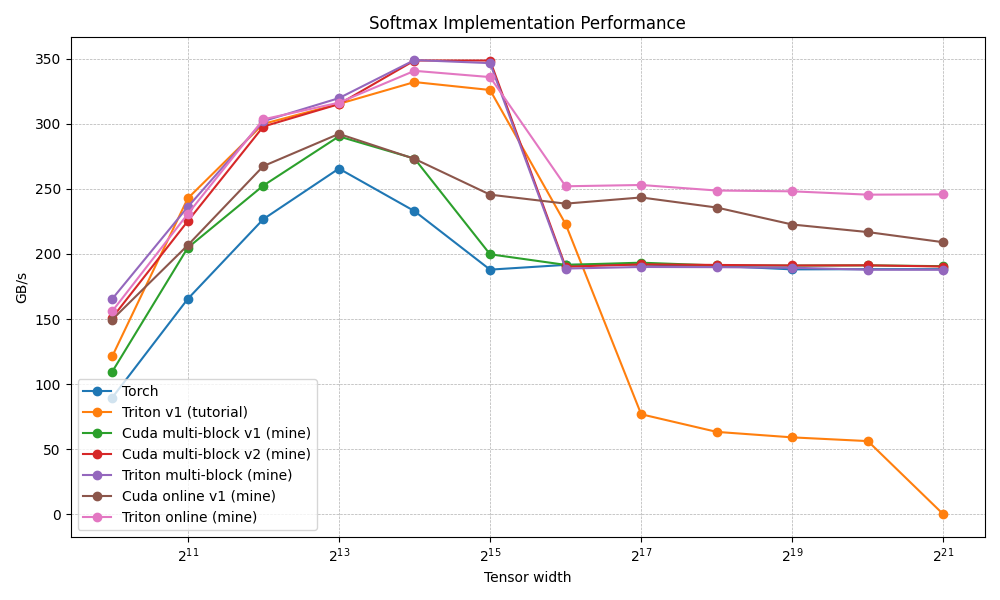
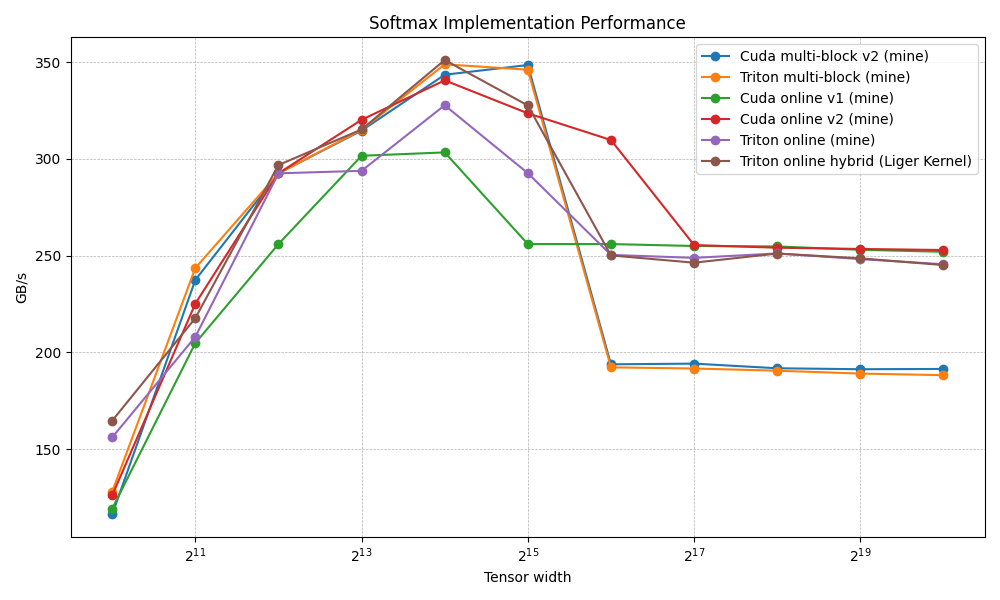
Add CUDA softmax implementation v2

diff --git a/benchmark.py b/benchmark.py
@@ -11,25 +11,27 @@ from triton_kernels.article3 import triton_online_softmax, triton_online_softmax
 configs = [
     triton.testing.Benchmark(
             x_names=["N"],
-            x_vals=[2 ** i for i in range(10, 22)],
+            x_vals=[2 ** i for i in range(10, 21)],
             line_arg="provider",
             line_vals=[
-                "torch",
-                "triton_tutorial",
-                "cuda_multi_block_v1",
+                # "torch",
+                # "triton_tutorial",
+                # "cuda_multi_block_v1",
                 "cuda_multi_block_v2",
                 "triton_multi_block",
                 "cuda_online_v1",
+                "cuda_online_v2",
                 "triton_online",
                 "triton_online_hybrid"
             ],
             line_names=[
-                "Torch",
-                "Triton v1 (tutorial)",
-                "Cuda multi-block v1 (mine)",
+                # "Torch",
+                # "Triton v1 (tutorial)",
+                # "Cuda multi-block v1 (mine)",
                 "Cuda multi-block v2 (mine)",
                 "Triton multi-block (mine)",
                 "Cuda online v1 (mine)",
+                "Cuda online v2 (mine)",
                 "Triton online (mine)",
                 "Triton online hybrid (Liger Kernel)"
             ],
@@ -65,6 +67,8 @@ def benchmark(N: int, provider: str, quantiles: list[float] = [0.5, 0.2, 0.8]):
             return lambda: triton_softmax_v2(x)
         elif provider == "cuda_online_v1":
             return lambda: cuda_softmax_kernel.softmax_cuda_online_v1(x)
+        elif provider == "cuda_online_v2":
+            return lambda: cuda_softmax_kernel.softmax_cuda_online_v2(x)
         elif provider == "triton_online":
             return lambda: triton_online_softmax(x)
         elif provider == "triton_online_hybrid":

diff --git a/cuda_kernels/binding.cpp b/cuda_kernels/binding.cpp
@@ -4,12 +4,14 @@ torch::Tensor softmax_cuda_v1(torch::Tensor x);
 torch::Tensor softmax_cuda_multi_block_v1(torch::Tensor x);
 torch::Tensor softmax_cuda_multi_block_v2(torch::Tensor x);
 torch::Tensor softmax_cuda_online_v1(torch::Tensor x);
+torch::Tensor softmax_cuda_online_v2(torch::Tensor x);
 
 
 PYBIND11_MODULE(TORCH_EXTENSION_NAME, m)
 {
-  m.def("softmax_cuda_v1", &softmax_cuda_v1, "Softmax (CUDA)");
-  m.def("softmax_cuda_multi_block_v1", &softmax_cuda_multi_block_v1, "Softmax (CUDA)");
-  m.def("softmax_cuda_multi_block_v2", &softmax_cuda_multi_block_v2, "Softmax (CUDA)");
-  m.def("softmax_cuda_online_v1", &softmax_cuda_online_v1, "Softmax (CUDA)");
+  m.def("softmax_cuda_v1", &softmax_cuda_v1, "Softmax (Baseline)");
+  m.def("softmax_cuda_multi_block_v1", &softmax_cuda_multi_block_v1, "Softmax (Multi-block v1)");
+  m.def("softmax_cuda_multi_block_v2", &softmax_cuda_multi_block_v2, "Softmax (Multi-block v2)");
+  m.def("softmax_cuda_online_v1", &softmax_cuda_online_v1, "Softmax (Online v1)");
+  m.def("softmax_cuda_online_v2", &softmax_cuda_online_v2, "Softmax (Online v2)");
 }

diff --git a/assertions.py b/assertions.py
@@ -13,7 +13,7 @@ expected_result = torch.softmax(x, dim=-1)
 triton_result = triton_fused_softmax(x)
 assert torch.allclose(triton_result, expected_result)
 
-# Our implementation is only valid for matrix of width <= 2**12
+# Baseline implementation is only valid for matrix of width <= 2**12
 cuda_result = cuda_softmax_kernel.softmax_cuda_v1(x)
 assert torch.allclose(cuda_result, expected_result)
 
@@ -33,7 +33,7 @@ assert torch.allclose(cuda_result2, expected_result)
 
 # Article 3
 
-x = torch.randn(128, 2**18, device='cuda')
+x = torch.randn(128, 2**16, device='cuda')
 expected_result = torch.softmax(x, dim=-1)
 
 triton_result = triton_online_softmax(x)
@@ -43,4 +43,7 @@ triton_result = triton_online_softmax_hybrid(x)
 assert torch.allclose(triton_result, expected_result)
 
 cuda_result = cuda_softmax_kernel.softmax_cuda_online_v1(x)
+assert torch.allclose(cuda_result, expected_result)
+
+cuda_result = cuda_softmax_kernel.softmax_cuda_online_v2(x)
 assert torch.allclose(cuda_result, expected_result)

diff --git a/cuda_kernels/setup.py b/cuda_kernels/setup.py
@@ -1,7 +1,7 @@
 from setuptools import setup
 from torch.utils.cpp_extension import BuildExtension, CUDAExtension
 
-__version__ = "0.3.0"
+__version__ = "0.3.2"
 
 # Define the C++ extension modules
 ext_modules = [
